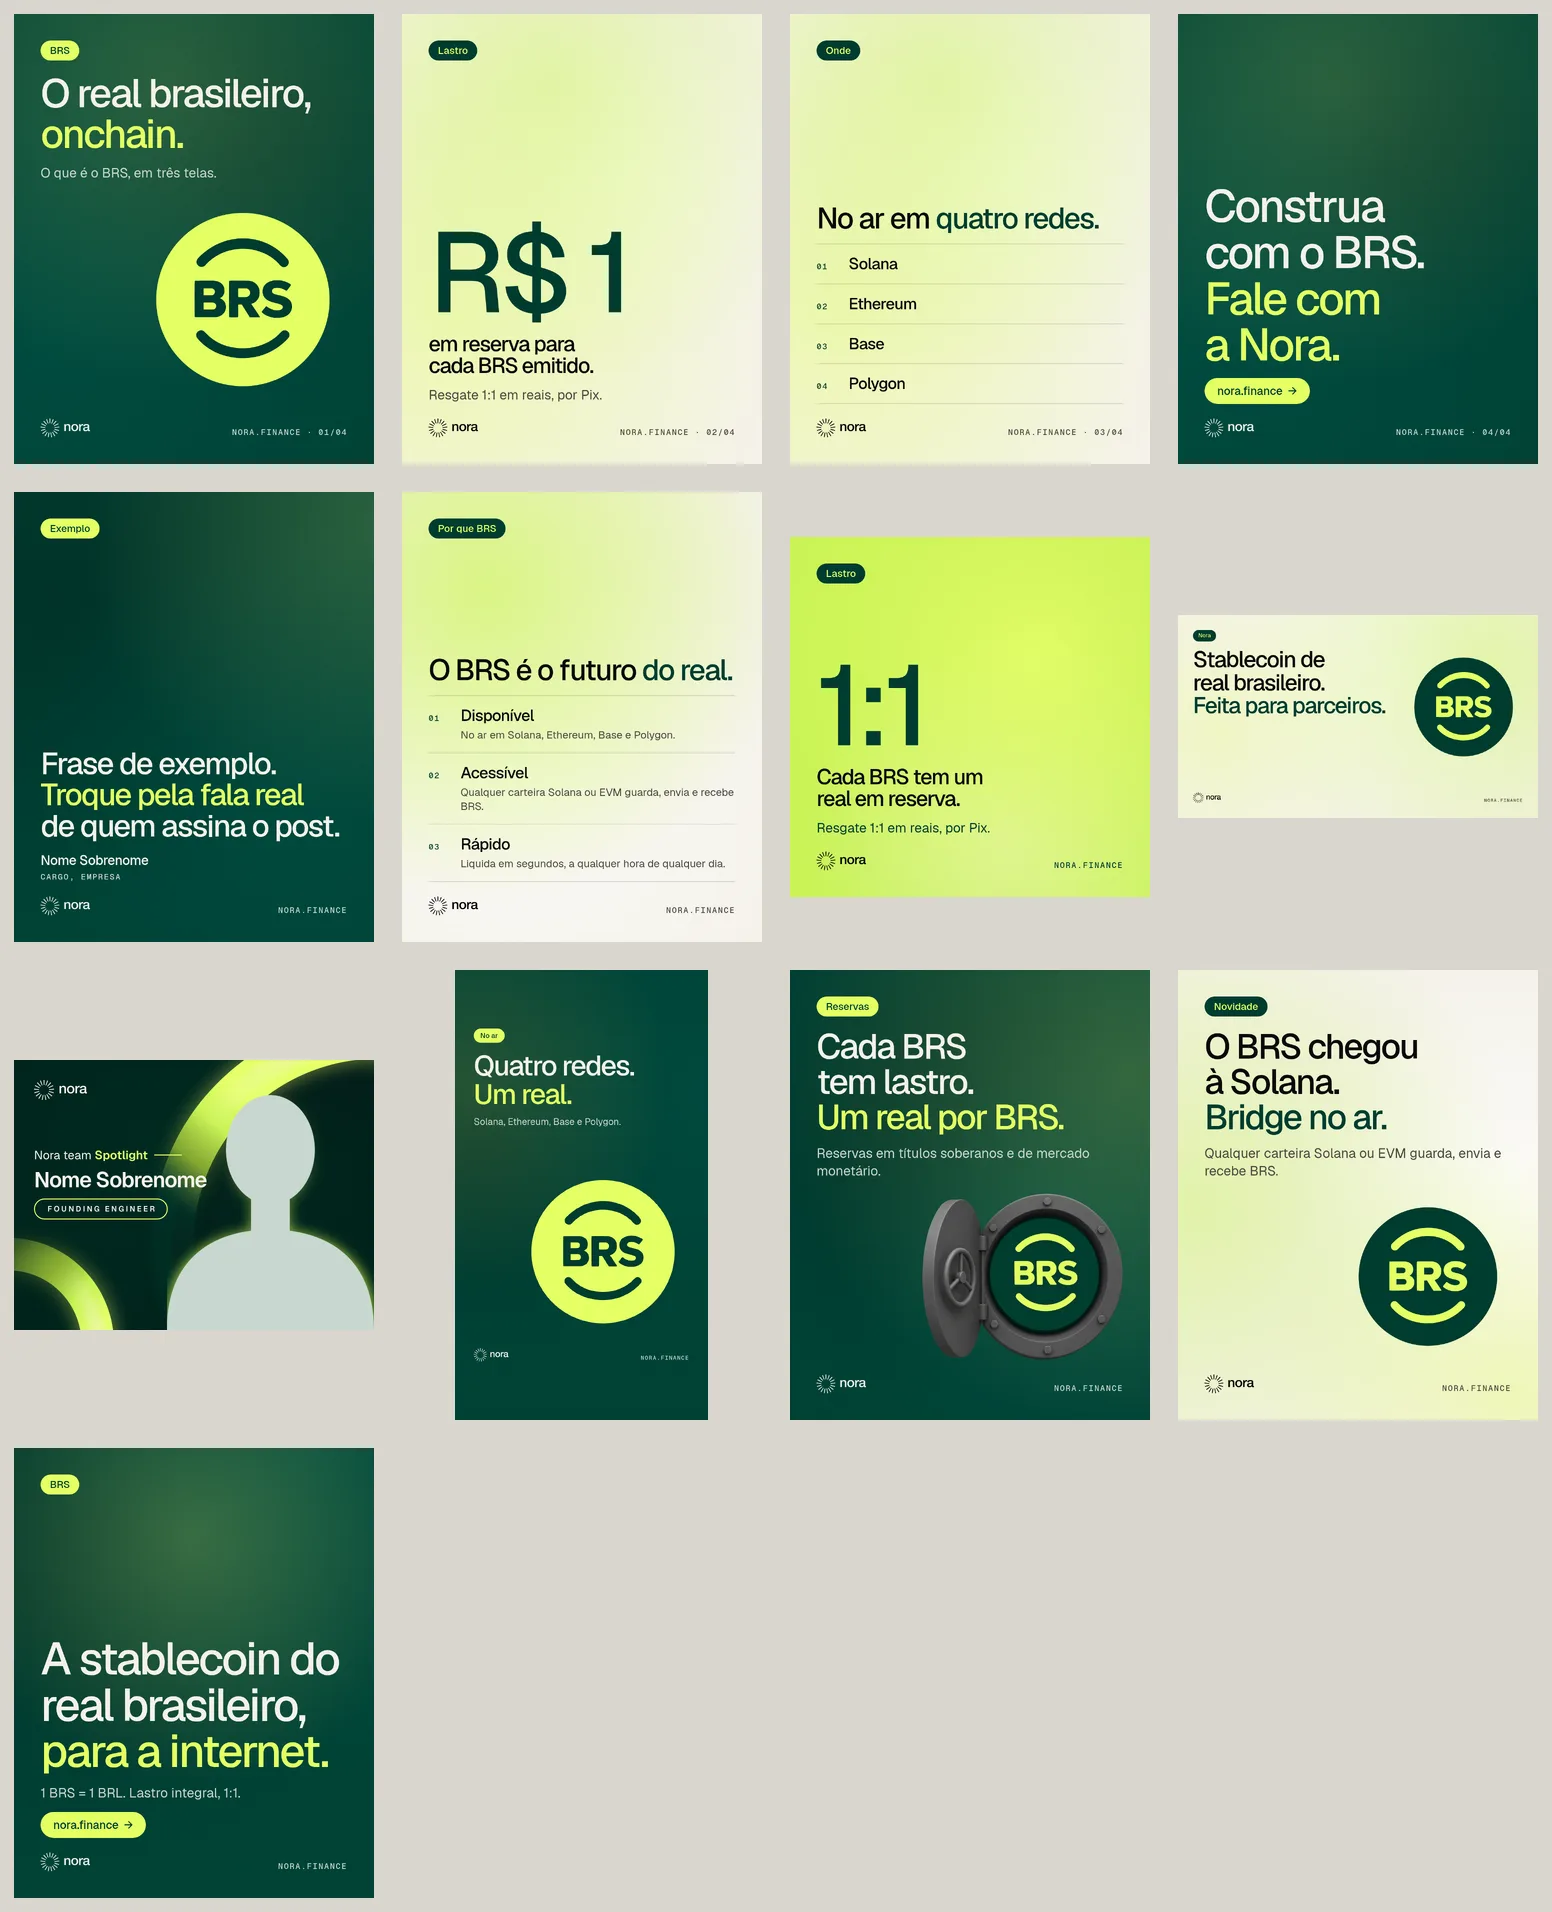
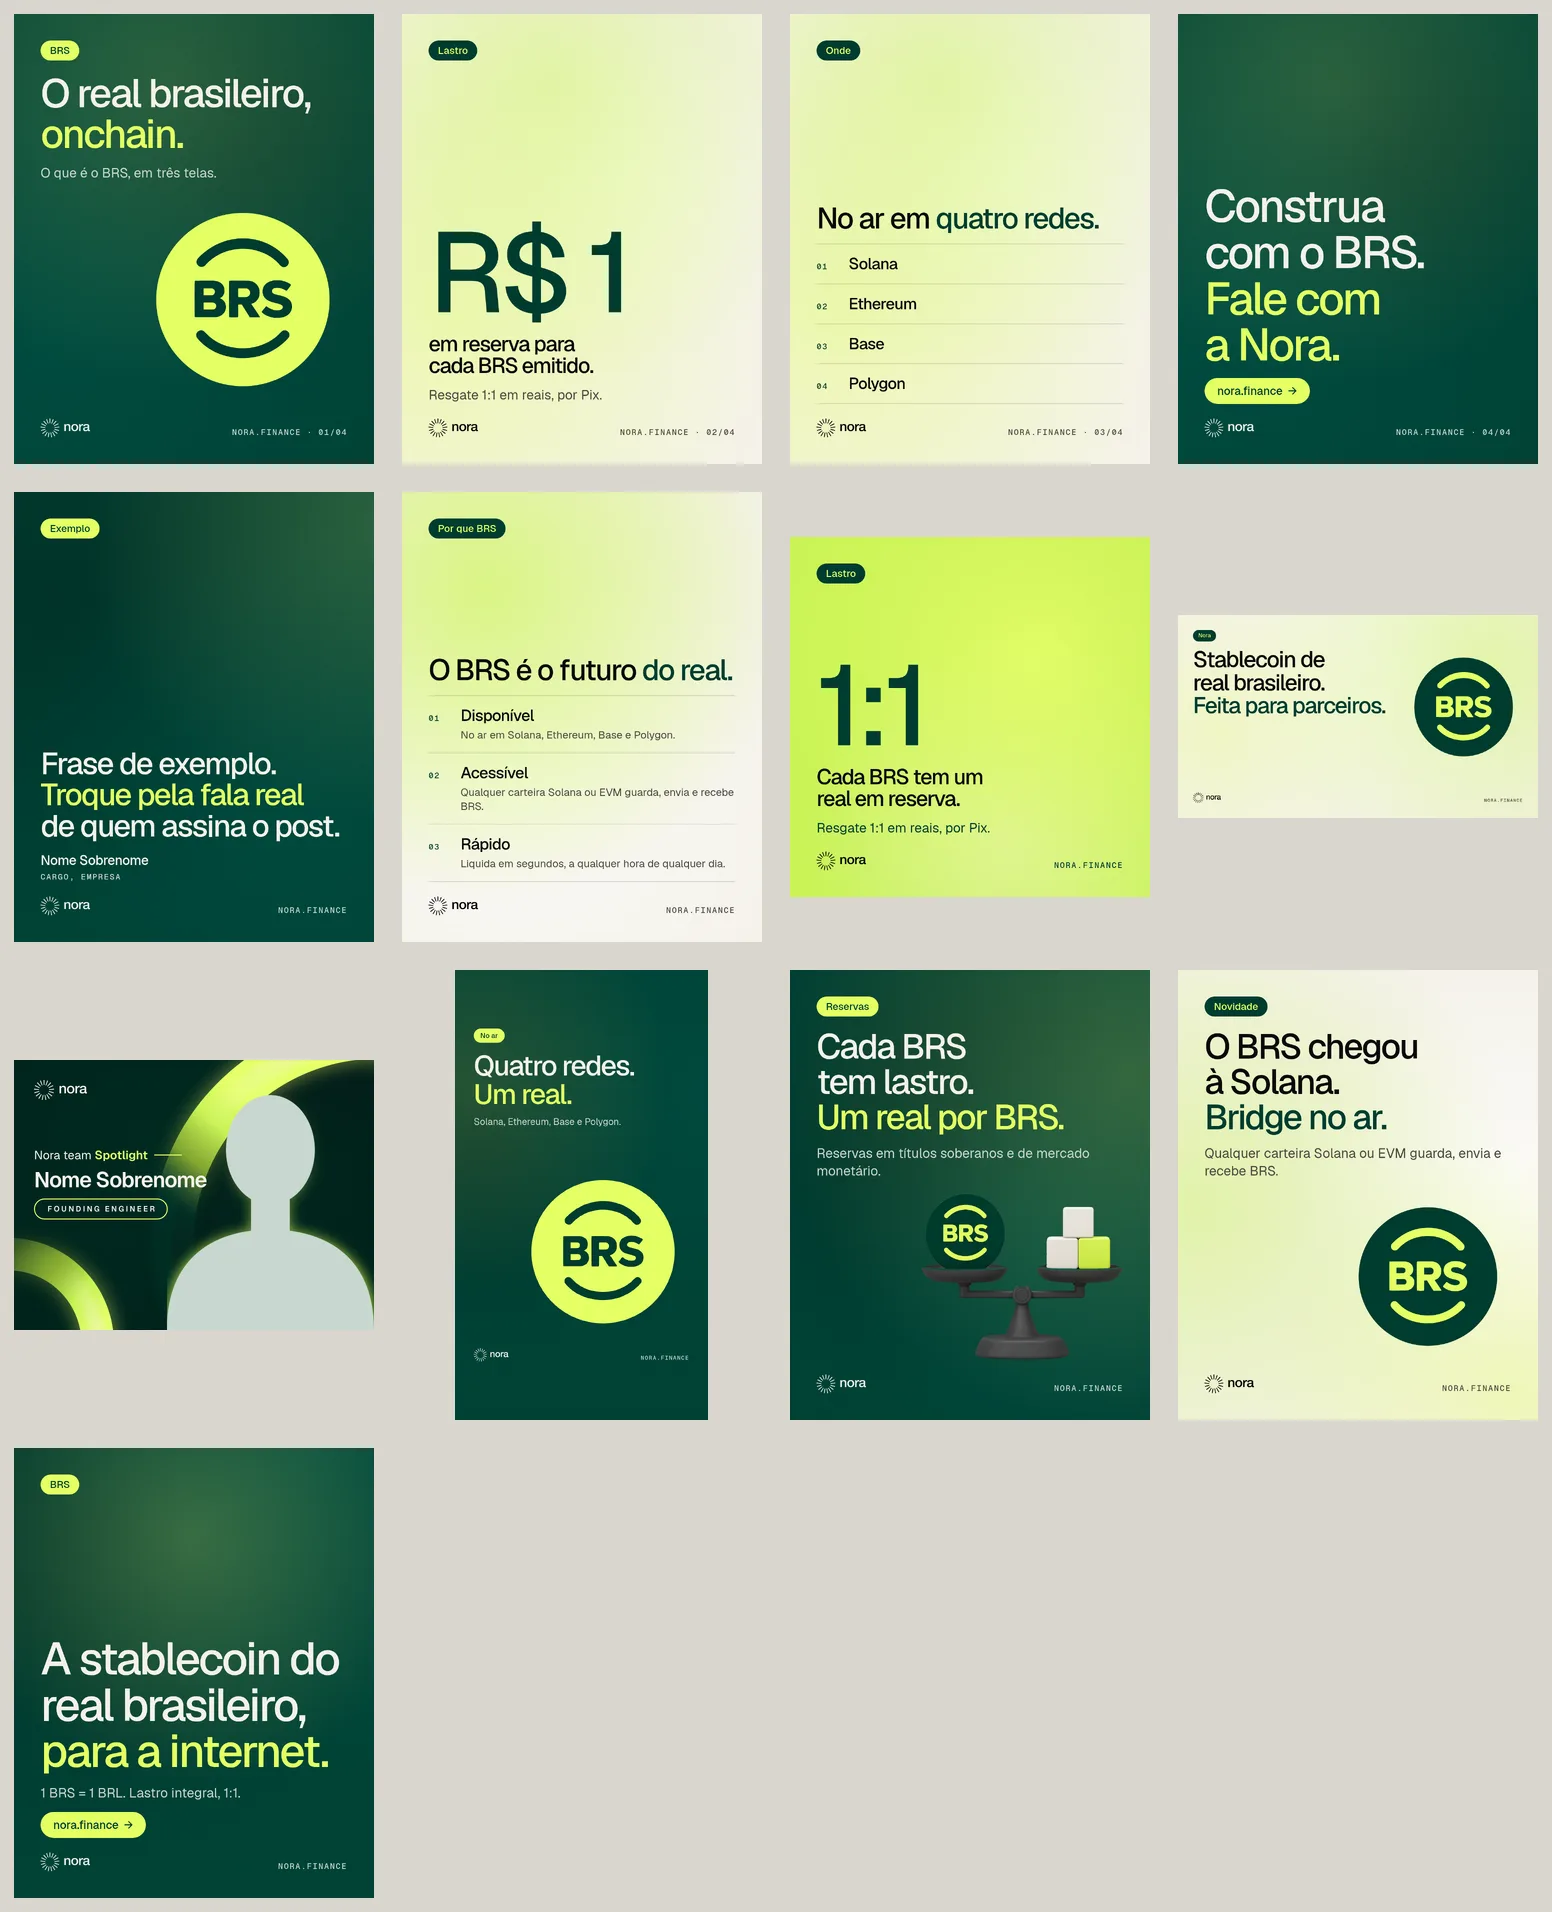
fix: cofre do BRS sai do tema verde e dos exemplos
No verde o interior do cofre some no fundo e a peça vira um bloco cinza. O
exemplo de ilustração passa a usar a balança, e o guia e o AGENTS.md citam
o celular como ilustração de exemplo. O arquivo do cofre continua no kit,
válido em papel e lima, até a decisão sobre aposentar ou refazer.

Changed region(s): [[0.5876, 0.6172, 0.7423, 0.7097]]

diff --git a/GUIA-DE-MARCA.md b/GUIA-DE-MARCA.md
@@ -163,7 +163,7 @@ Em negrito, o que é obrigatório; entre parênteses, o máximo de caracteres.
   comum é pôr o destaque numa linha própria: `"Construa com o BRS.\n*Fale com a Nora.*"`.
 - **Arte** (só no layout `titulo`): `"arte"` vale `nenhuma` (padrão), `brs`
   (a marca do BRS) ou `imagem`. Com `imagem`, o campo `"imagem"` leva o nome de
-  uma [ilustração pronta](#ilustrações-prontas) (`"brs-cofre"`) ou o caminho de
+  uma [ilustração pronta](#ilustrações-prontas) (`"brs-celular"`) ou o caminho de
   um arquivo PNG, JPG ou WebP, relativo ao JSON ou absoluto. Imagem com fundo
   transparente entra solta; sem transparência, entra num cartão de cantos
   arredondados.
@@ -288,7 +288,7 @@ seja copiado ou renomeado.
 
 | Ilustração | Serve para | Temas |
 |---|---|---|
-| `brs-cofre` | lastro guardado, segurança | papel, verde, lima |
+| `brs-cofre` | lastro guardado, segurança | papel, lima |
 | `brs-celular` | BRS no app, pagamento, carteira | papel, verde, lima |
 | `brs-lastro` | reservas, lastro 1:1 | papel, lima |
 | `brs-pilhas` | crescimento, volume, emissão | papel, lima |
@@ -297,7 +297,7 @@ seja copiado ou renomeado.
 | `nora-simbolo-brs` | Nora e BRS juntos, rede | papel, verde |
 | `nora-simbolo-3d` | institucional Nora | verde |
 
-Uso no JSON: `"arte": "imagem", "imagem": "brs-cofre"`. Antes de gerar imagem
+Uso no JSON: `"arte": "imagem", "imagem": "brs-celular"`. Antes de gerar imagem
 nova, veja se uma destas já resolve.
 
 ### Imagem nova

diff --git a/AGENTS.md b/AGENTS.md
@@ -28,7 +28,7 @@ validado contra as tabelas do guia, e diga que falta renderizar.
 - O gerador é o único caminho para post. Layout, cor, tamanho de letra e
   posição do logo já estão decididos nele: o que varia é o JSON.
 - Logo da Nora e marca do BRS entram pelos arquivos oficiais (`logo/`,
-  `social/brs/`). Para ilustrar, use primeiro uma das prontas (`"imagem": "brs-cofre"`);
+  `social/brs/`). Para ilustrar, use primeiro uma das prontas (`"imagem": "brs-celular"`);
   IA de imagem produz só ilustração nova, pelo roteiro da seção "Imagem gerada
   por IA" do guia.
 - Número, parceiro, data e afirmação sobre o BRS vêm de quem pediu a peça, da
